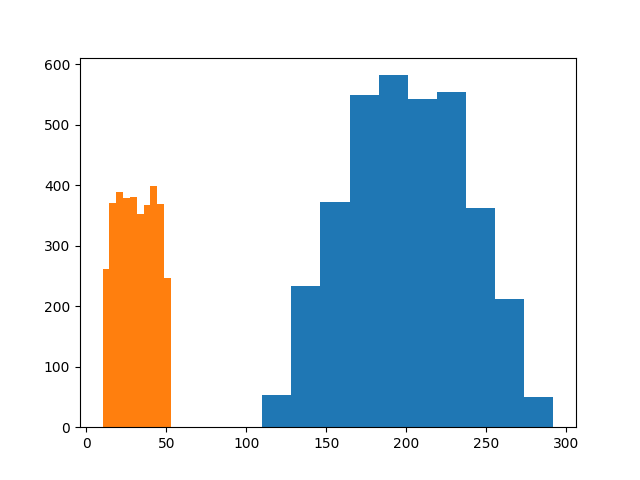
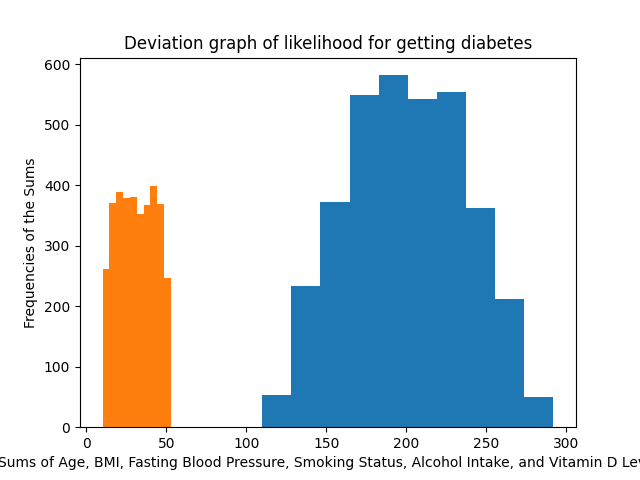
The model is done. I learned that for unsupervised learning, the accuracy is not always the best result to look for.

Changed region(s): [[0.1875, 0.0625, 0.8438, 0.125], [0.0, 0.9375, 1.0, 1.0], [0.0312, 0.3125, 0.0625, 0.6875]]

diff --git a/app.py b/app.py
@@ -1,16 +1,24 @@
 # library used to access directories and the .env file (NOT SHOWN for security reasons)
 import os
+from statistics import mode
 
 # libraries to visualize and organize data
 import numpy as np
+
 import pandas as pd
+
+# plotting utilities
 import matplotlib.pyplot as plt
 import matplotlib
+from matplotlib import cm, colors
+
+# for styling clusters made in the scatter plot (also a plot utility)
 import seaborn as sns
 
 # libraries to treat categorical variables within the dataframe
-from sklearn.preprocessing import LabelEncoder
+from sklearn.preprocessing import LabelEncoder, normalize, StandardScaler
 from sklearn.cluster import KMeans
+from sklearn.metrics import accuracy_score
 
 # libraries to train the model
 from sklearn.model_selection import train_test_split
@@ -76,7 +84,6 @@ corr_matrix = diabetes_csv.corr()
 diabetes_csv.reset_index(drop=True, inplace=True)
 
 print(diabetes_csv)
-"""TODO: Train and Test the Model """
 df_age = diabetes_csv['Age'].to_numpy()
 df_bmi = diabetes_csv['BMI'].to_numpy()
 df_fbs = diabetes_csv['Fasting_Blood_Sugar'].to_numpy()
@@ -93,27 +100,58 @@ for i in range(len(df_smoking)):
     y_data.append(df_smoking[i]+ df_alcohol[i]+df_vdl[i])
 print(y_data)
 
-fig, ax = plt.subplots()
+# fig, ax = plt.subplots()
 #plt.boxplot([x_data,y_data], label=['X Data','Y Data'])
 #plt.savefig("axisboxplots.png")
 
+# plt.title("Deviation graph of likelihood for getting diabetes")
+# plt.xlabel("Sums of Age, BMI, Fasting Blood Pressure, Smoking Status, Alcohol Intake, and Vitamin D Level")
+# plt.ylabel("Frequencies of the Sums")
 # plt.hist(x=x_data, label='X Data')
 # plt.hist(x=y_data, label='Y Data')
 # plt.savefig("diabeteshistogram.png")
 
+plt.xlabel("Sum of Age, BMI, and Fasting Blood Pressure")
+plt.ylabel("Sum of Smoking Status, Alcohol Intake, and Vitamin D Level")
 plt.scatter(x=x_data, y=y_data)
 plt.savefig("idscatter.png")
 
 
-# y_data = np.array(diabetes_csv['Smoking_Status'])
+# Train and Test the ML Model
+x_data = np.array(x_data).reshape(-1, 1)
+y_data = np.array(y_data).reshape(-1, 1)
+X_train, X_test, y_train, y_test = train_test_split(x_data, y_data, test_size=0.3, random_state=42)
 
-# for i in range(len(y_data)):
-#     y_data[i] = diabetes_csv['Smoking_Status'].loc[i]+diabetes_csv['Alcohol_Intake'].loc[i]+diabetes_csv['Stress_Level'].loc[i]
+# Normalize the data using StandardScaler
+scaler = StandardScaler()
+X_train_norm = scaler.fit_transform(X_train)
+X_test_norm = scaler.transform(X_test)
+y_train_norm = scaler.fit_transform(y_train)
+y_test_norm = scaler.transform(y_test)
 
-# We will omit fields that are indirectly proportional to an increased risk of diabetes
-# plt.scatter(x_data,y_data)
+# Apply KMeans clustering
+n_clusters = 3
+kmeans = KMeans(n_clusters=n_clusters, random_state=0, n_init='auto')
+clusters = kmeans.fit_predict(X_train_norm)  # Get cluster labels
 
+# These lines create the scatterplot
+plt.figure(figsize=(8, 6))
+scatter = sns.scatterplot(
+    x=X_train_norm[:, 0], 
+    y=y_train[:, 0], 
+    hue=clusters, 
+    palette=sns.color_palette("tab10", n_clusters),  # Ensure distinct colors
+    edgecolor="k"
+)
 
-# we will try training with less and incrementing more until the ML model is accurate
-# X_train, X_test, y_train, y_test = train_test_split(x_data,y_data,test_size=0.9)
+# Create a colorbar for the legend
+handles, labels = scatter.get_legend_handles_labels()
+plt.legend(title="Cluster Label", handles=handles, labels=labels)
 
+# Titles and labels
+plt.title("Scatterplot of Normalized Training Data with Clusters")
+plt.xlabel("Normalized X Data")
+plt.ylabel("Y Data")
+
+# Save and show plot
+plt.savefig("normalized_training_scatter.png")
